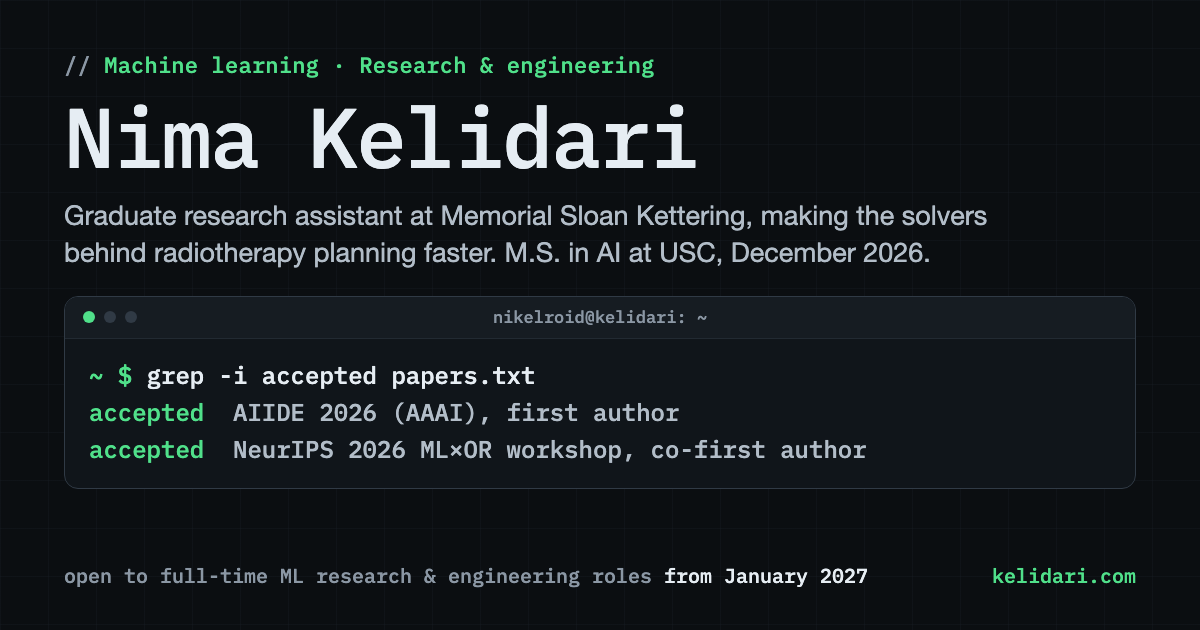
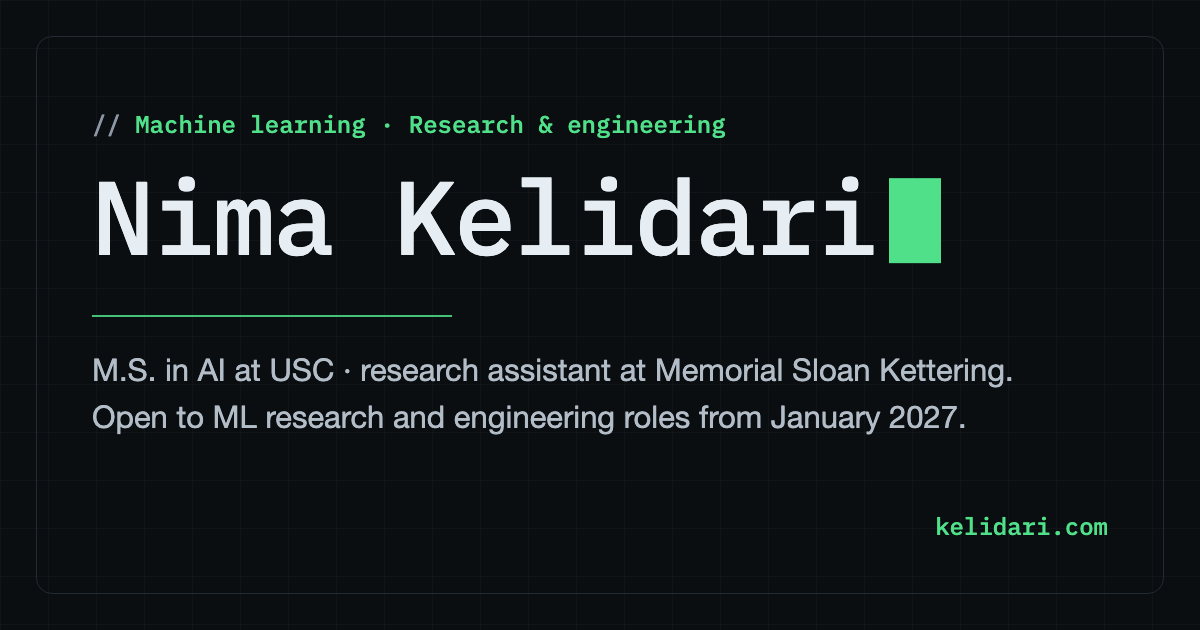
Simpler link preview image: name and description only

diff --git a/index.html b/index.html
@@ -18,7 +18,7 @@
   <meta property="og:site_name" content="Nima Kelidari">
   <meta property="og:title" content="Nima Kelidari — Machine Learning Researcher &amp; Engineer">
   <meta property="og:description" content="M.S. in AI at USC · graduate research assistant at Memorial Sloan Kettering Cancer Center · papers at AIIDE 2026 and the NeurIPS 2026 ML×OR workshop.">
-  <meta property="og:image" content="https://kelidari.com/assets/og-card.png?v=2">
+  <meta property="og:image" content="https://kelidari.com/assets/og-card.png?v=3">
   <meta property="og:image:width" content="1200">
   <meta property="og:image:height" content="630">
   <meta property="og:image:alt" content="Nima Kelidari — machine learning, research and engineering. kelidari.com">
@@ -28,7 +28,7 @@
   <meta name="twitter:card" content="summary_large_image">
   <meta name="twitter:title" content="Nima Kelidari — Machine Learning Researcher &amp; Engineer">
   <meta name="twitter:description" content="M.S. in AI at USC · graduate research assistant at Memorial Sloan Kettering · papers at AIIDE 2026 and the NeurIPS 2026 ML×OR workshop.">
-  <meta name="twitter:image" content="https://kelidari.com/assets/og-card.png?v=2">
+  <meta name="twitter:image" content="https://kelidari.com/assets/og-card.png?v=3">
 
   <link rel="icon" href="/favicon.ico" sizes="32x32">
   <link rel="icon" href="/favicon-32.png" type="image/png" sizes="32x32">

diff --git a/projects/index.html b/projects/index.html
@@ -17,13 +17,13 @@
   <meta property="og:site_name" content="Nima Kelidari">
   <meta property="og:title" content="Project Index — Nima Kelidari">
   <meta property="og:description" content="Sixty-odd projects across machine learning, MLOps, NLP, computer vision, systems, and full-stack development.">
-  <meta property="og:image" content="https://kelidari.com/assets/og-card.png?v=2">
+  <meta property="og:image" content="https://kelidari.com/assets/og-card.png?v=3">
   <meta property="og:image:width" content="1200">
   <meta property="og:image:height" content="630">
   <meta name="twitter:card" content="summary_large_image">
   <meta name="twitter:title" content="Project Index — Nima Kelidari">
   <meta name="twitter:description" content="Sixty-odd projects across machine learning, MLOps, NLP, computer vision, systems, and full-stack development.">
-  <meta name="twitter:image" content="https://kelidari.com/assets/og-card.png?v=2">
+  <meta name="twitter:image" content="https://kelidari.com/assets/og-card.png?v=3">
 
   <link rel="icon" href="/favicon.ico" sizes="32x32">
   <link rel="icon" href="/favicon-32.png" type="image/png" sizes="32x32">
